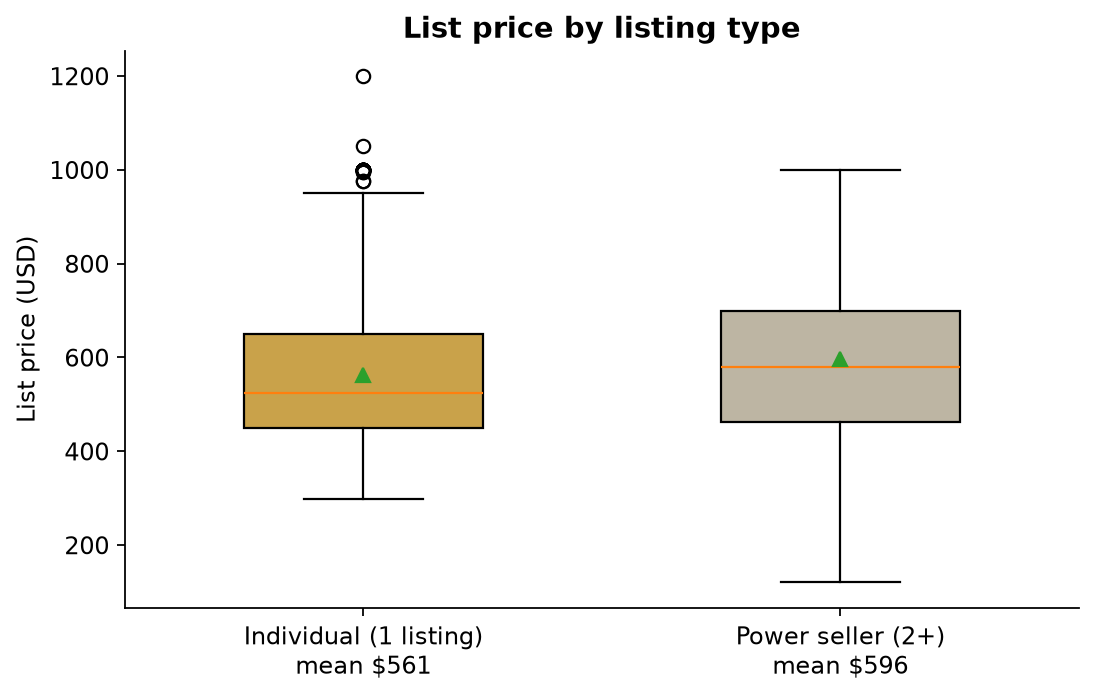
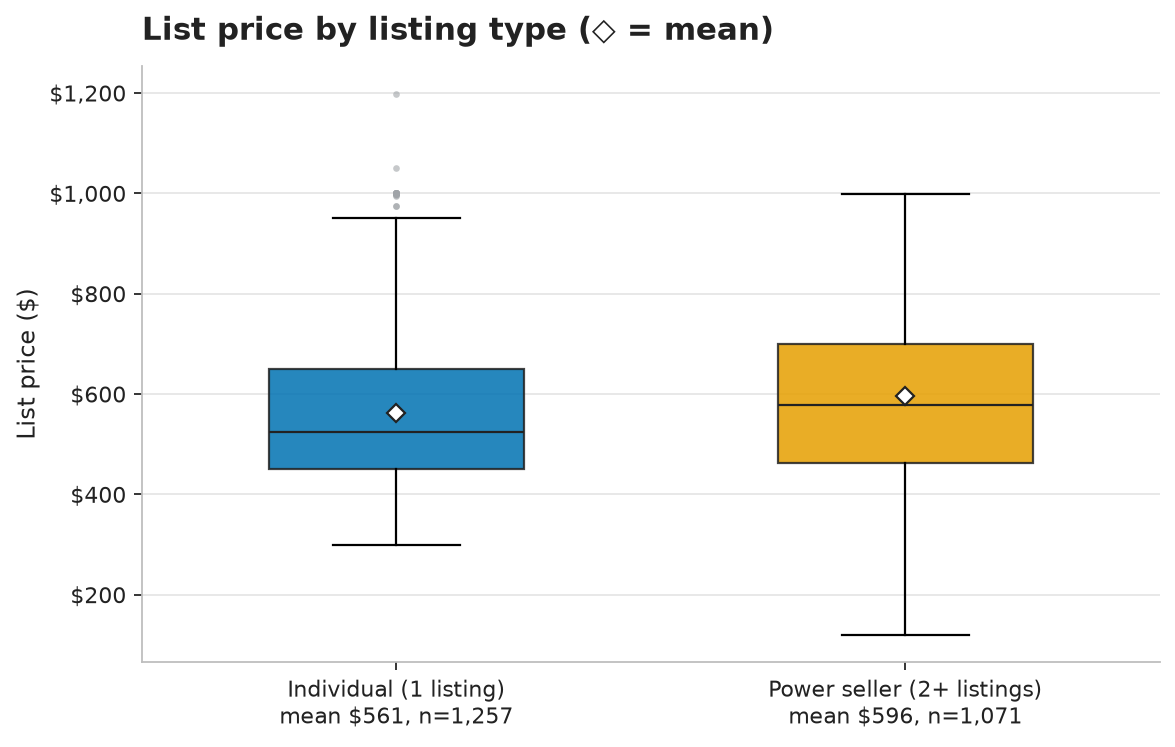
Restyle static figures: neutral theme, Okabe-Ito palette, legend-based donuts with grouped 'Other', dollar-labelled axes

diff --git a/src/visualization.py b/src/visualization.py
@@ -796,13 +796,24 @@ def display_model_results(
 
 # =====================================================================
 # README figures (regenerated by scripts/make_figures.py)
+# Neutral style: white background, #222 text, Okabe-Ito palette, minimal grid.
+# Gold is used only for gold-plated listings; gray for de-emphasized data.
 # =====================================================================
-GOLD, INK, BLUE, GREY = '#c9a24a', '#2b2823', '#4a78b5', '#bdb5a3'
+INK, MUTED, GRID = '#222222', '#555555', '#E6E6E6'
+BLUE, GRAY, ACCENT, UKC, GOLD = '#3A6EA5', '#A0A4A8', '#E69F00', '#D55E00', '#B8860B'
+POS, NEG = '#D55E00', '#0072B2'          # SHAP: raises / lowers prediction
+OKABE = ['#0072B2', '#E69F00', '#009E73', '#CC79A7', '#56B4E9', '#D55E00', '#F0E442']
 
 
 def _style():
-    plt.rcParams.update({'figure.dpi': 110, 'savefig.dpi': 160, 'axes.spines.top': False, 'axes.spines.right': False,
-                         'font.size': 11, 'axes.titleweight': 'bold'})
+    plt.rcdefaults()
+    plt.rcParams.update({
+        'figure.dpi': 110, 'savefig.dpi': 160, 'figure.facecolor': 'white', 'axes.facecolor': 'white',
+        'font.family': 'DejaVu Sans', 'font.size': 11, 'axes.titlesize': 14, 'axes.titleweight': 'bold',
+        'axes.titlepad': 12, 'axes.titlelocation': 'left', 'axes.labelsize': 11, 'axes.labelcolor': INK,
+        'text.color': INK, 'xtick.color': INK, 'ytick.color': INK, 'xtick.labelsize': 10, 'ytick.labelsize': 10,
+        'axes.edgecolor': '#BDBDBD', 'axes.spines.top': False, 'axes.spines.right': False,
+        'axes.grid': True, 'grid.color': GRID, 'grid.linewidth': 0.8, 'axes.axisbelow': True, 'legend.frameon': False})
 
 
 def _save(fig, path):
@@ -812,15 +823,32 @@ def _save(fig, path):
     return fig
 
 
-def fig_donut(counts, title, path=None, top=6):
+def _grid(ax, axis):
+    ax.grid(False)
+    ax.grid(True, axis=axis)
+
+
+def fig_donut(counts, title, path=None, top=4):
+    """Donut with a legend instead of slice labels; categories beyond `top` are grouped into 'Other'."""
     _style()
     c = counts.sort_values(ascending=False)
-    c = pd.concat([c.iloc[:top], pd.Series({'Other': c.iloc[top:].sum()})]) if len(c) > top else c
-    fig, ax = plt.subplots(figsize=(5.5, 5.5))
-    cols = ['#b8892f', '#d9b65c', '#efd99a', INK, '#7a7263', GREY, '#e6e0d2']
-    ax.pie(c.values, labels=c.index, colors=cols[:len(c)], autopct='%1.1f%%', pctdistance=0.78,
-           wedgeprops=dict(width=0.42, edgecolor='white'), startangle=90, counterclock=False)
-    ax.set_title(title)
+    other = c.iloc[top:]
+    if len(other):
+        c = pd.concat([c.iloc[:top], pd.Series({'Other': other.sum()})])
+    cols = [GRAY if k in ('Other', 'Unknown') else OKABE[i % len(OKABE)] for i, k in enumerate(c.index)]
+    fig, ax = plt.subplots(figsize=(6, 6.8))
+    ax.grid(False)
+    tot = c.sum()
+    wedges, _, autotexts = ax.pie(c.values, colors=cols, startangle=90, counterclock=False, pctdistance=0.78,
+                                  autopct=lambda p: f'{p:.1f}%' if p >= 5 else '', wedgeprops=dict(width=0.42, edgecolor='white', linewidth=2))
+    for t, col in zip(autotexts, cols):
+        t.set_color('white' if col in ('#0072B2', '#D55E00', '#009E73') else INK); t.set_fontsize(10); t.set_fontweight('bold')
+    ax.legend(wedges, [f'{k}  ({v:,} · {v / tot:.1%})' for k, v in c.items()], loc='upper center',
+              bbox_to_anchor=(0.5, 0.0), ncol=2, fontsize=10)
+    if len(other):
+        ax.text(0.5, -0.22, 'Other: ' + ', '.join(f'{k} ({v})' for k, v in other.items()), transform=ax.transAxes,
+                ha='center', va='top', fontsize=8.5, color=MUTED, wrap=True)
+    ax.set_title(title, loc='center')
     return _save(fig, path)
 
 
@@ -828,87 +856,108 @@ def fig_country_means(df, path=None, min_n=30):
     _style()
     g = df.groupby('country')['price'].agg(['mean', 'size'])
     g = g[g['size'] >= min_n].sort_values('mean', ascending=False)
-    fig, ax = plt.subplots(figsize=(9, 4.5))
-    ax.bar(g.index, g['mean'], color=[BLUE if c == 'United Kingdom' else GOLD for c in g.index])
-    ax.axhline(df.price.mean(), ls=':', color=INK)
-    ax.text(len(g) - 0.5, df.price.mean(), f'overall ${df.price.mean():,.0f}', ha='right', va='bottom')
-    for i, (m, n) in enumerate(zip(g['mean'], g['size'])):
-        ax.text(i, m, f'${m:,.0f}\nn={n}', ha='center', va='bottom', fontsize=9)
-    ax.set_ylabel('Average list price (USD)'); ax.set_title(f'Average price by country (≥{min_n} listings)')
+    fig, ax = plt.subplots(figsize=(9, 4.8)); _grid(ax, 'y')
+    ax.bar(g.index, g['mean'], color=[UKC if c == 'United Kingdom' else BLUE for c in g.index], width=.65)
+    m = round(df.price.mean(), 2)
+    ax.axhline(m, ls='--', lw=1, color=INK)
+    ax.text(len(g) - 0.6, m + 8, f'All listings: ${m:,.0f}', ha='right', va='bottom', fontsize=10)
+    for i, (v, n) in enumerate(zip(g['mean'], g['size'])):
+        ax.text(i, v / 2, f'${v:,.0f}\nn={n}', ha='center', va='center', fontsize=10, color='white', fontweight='bold')
+    ax.set_ylabel('Average list price ($)'); ax.set_title(f'Average list price by country (countries with ≥{min_n} listings)')
+    ax.yaxis.set_major_formatter(lambda x, _: f'${x:,.0f}')
     return _save(fig, path)
 
 
 def fig_listing_type(df, path=None):
     _style()
-    fig, ax = plt.subplots(figsize=(7, 4.5))
+    fig, ax = plt.subplots(figsize=(7.5, 4.8)); _grid(ax, 'y')
     data = [df.loc[df.power_seller == 0, 'price'], df.loc[df.power_seller == 1, 'price']]
-    b = ax.boxplot(data, patch_artist=True, showmeans=True, widths=.5)
-    for patch, c in zip(b['boxes'], [GOLD, GREY]):
-        patch.set_facecolor(c)
-    ax.set_xticks([1, 2], [f'Individual (1 listing)\nmean ${data[0].mean():,.0f}', f'Power seller (2+)\nmean ${data[1].mean():,.0f}'])
-    ax.set_ylabel('List price (USD)'); ax.set_title('List price by listing type')
+    b = ax.boxplot(data, patch_artist=True, showmeans=True, widths=.5, showfliers=True,
+                   medianprops=dict(color=INK), meanprops=dict(marker='D', markerfacecolor='white', markeredgecolor=INK),
+                   flierprops=dict(marker='o', markersize=3, markerfacecolor=GRAY, markeredgecolor='none', alpha=.6))
+    for patch, c in zip(b['boxes'], [OKABE[0], OKABE[1]]):
+        patch.set_facecolor(c); patch.set_alpha(.85); patch.set_edgecolor(INK)
+    ax.set_xticks([1, 2], [f'Individual (1 listing)\nmean ${data[0].mean():,.0f}, n={len(data[0]):,}',
+                           f'Power seller (2+ listings)\nmean ${data[1].mean():,.0f}, n={len(data[1]):,}'])
+    ax.set_ylabel('List price ($)'); ax.set_title('List price by listing type (◇ = mean)')
+    ax.yaxis.set_major_formatter(lambda x, _: f'${x:,.0f}')
     return _save(fig, path)
 
 
 def fig_price_by_model(df, current_gen, path=None, title='Average list price by model'):
     _style()
     g = df.groupby('model')['price'].mean().sort_values()
-    fig, ax = plt.subplots(figsize=(8, 6.5))
-    ax.barh(g.index, g.values, color=[GOLD if m in current_gen else INK for m in g.index])
+    fig, ax = plt.subplots(figsize=(8, 6.5)); _grid(ax, 'x')
+    ax.barh(g.index, g.values, color=[ACCENT if m in current_gen else BLUE for m in g.index], height=.7)
     for i, v in enumerate(g.values):
-        ax.text(v + 5, i, f'${v:,.0f}', va='center', fontsize=9)
-    ax.set_xlabel('Average list price (USD)'); ax.set_title(title + '  (gold = current generation)')
+        ax.text(v + 6, i, f'${v:,.0f}', va='center', fontsize=9.5)
+    ax.set_xlabel('Average list price ($)'); ax.set_title(title)
+    ax.xaxis.set_major_formatter(lambda x, _: f'${x:,.0f}')
+    from matplotlib.patches import Patch as _P
+    ax.legend(handles=[_P(color=ACCENT, label='Current generation'), _P(color=BLUE, label='Older models')], loc='lower right')
+    ax.set_xlim(0, g.max() * 1.12)
     return _save(fig, path)
 
 
 def fig_gold_share(df, path=None):
     _style()
     g = df.groupby('model')['gold'].mean().mul(100).sort_values()
-    fig, ax = plt.subplots(figsize=(8, 6.5))
-    ax.barh(g.index, g.values, color=[GOLD if v > 0 else GREY for v in g.values])
+    fig, ax = plt.subplots(figsize=(8, 6.5)); _grid(ax, 'x')
+    ax.barh(g.index, g.values, color=[GOLD if v > 0 else GRAY for v in g.values], height=.7)
     for i, v in enumerate(g.values):
-        ax.text(v + 1, i, f'{v:.0f}%', va='center', fontsize=9)
-    ax.set_xlim(0, 100); ax.set_xlabel('% of listings gold-plated'); ax.set_title('Share of 24k gold-plated listings by model')
+        ax.text(v + 1, i, f'{v:.0f}%', va='center', fontsize=9.5)
+    ax.set_xlim(0, 100); ax.set_xlabel('Gold-plated listings (% of model)'); ax.set_title('Share of 24k gold-plated listings by model')
     return _save(fig, path)
 
 
 def fig_importance(imp, title, path=None):
     _style()
     s = imp.sort_values()
-    fig, ax = plt.subplots(figsize=(8, 5))
-    ax.barh(s.index, s.values, color=[GOLD if r >= len(s) - 4 else GREY for r in range(len(s))])
+    fig, ax = plt.subplots(figsize=(8, 5)); _grid(ax, 'x')
+    ax.barh(s.index, s.values, color=[BLUE if r >= len(s) - 4 else GRAY for r in range(len(s))], height=.7)
     for i, v in enumerate(s.values):
-        ax.text(v + .3, i, f'${v:.2f}', va='center', fontsize=9)
-    ax.set_xlabel('Mean |SHAP| on test set (USD)'); ax.set_title(title)
+        ax.text(v + .3, i, f'${v:.2f}', va='center', fontsize=9.5)
+    ax.set_xlabel('Mean |SHAP value| on test set ($)'); ax.set_title(title)
+    ax.set_xlim(0, s.max() * 1.15)
     return _save(fig, path)
 
 
 def fig_waterfall(shap_row, labels, base, title, path=None):
     _style()
     order = np.argsort(-np.abs(shap_row))
-    fig, ax = plt.subplots(figsize=(8, 5.5))
+    fig, ax = plt.subplots(figsize=(8.5, 5.6)); _grid(ax, 'x')
+    x = base
+    lo = hi = base
+    for i in order:
+        x += shap_row[i]; lo, hi = min(lo, x), max(hi, x)
     x = base
     for k, i in enumerate(order):
         v = shap_row[i]
-        ax.barh(k, v, left=x, color=GOLD if v >= 0 else BLUE)
-        ax.text(max(x, x + v) + 2, k, f'{v:+.2f}', va='center', fontsize=9)
+        ax.barh(k, v, left=x, color=POS if v >= 0 else NEG, height=.7)
+        ax.text(max(x, x + v) + 1.5, k, f'{"+" if v >= 0 else "−"}${abs(v):.2f}', va='center', fontsize=9.5)
         x += v
     ax.set_yticks(range(len(order)), [labels[i] for i in order]); ax.invert_yaxis()
-    ax.axvline(base, color=INK, ls=':'); ax.axvline(x, color=INK)
-    ax.margins(x=0.12)
-    ax.set_xlabel(f'USD  (base \\${base:,.0f} → prediction \\${x:,.0f})'); ax.set_title(title)
+    ax.axvline(base, color=MUTED, ls='--', lw=1); ax.axvline(x, color=INK, lw=1.2)
+    pad = (hi - lo) * 0.18
+    ax.set_xlim(lo - pad * .4, hi + pad)
+    ax.set_xlabel(f'Predicted list price ($): base \\${base:,.0f} → prediction \\${x:,.0f}')
+    ax.xaxis.set_major_formatter(lambda t, _: f'${t:,.0f}')
+    from matplotlib.patches import Patch as _P
+    ax.legend(handles=[_P(color=POS, label='Raises prediction'), _P(color=NEG, label='Lowers prediction')], loc='lower right')
+    ax.set_title(title)
     return _save(fig, path)
 
 
 def fig_country_shap(country, shap_country, path=None):
     _style()
     uk = shap_country[country == 'United Kingdom']; other = shap_country[country != 'United Kingdom']
-    fig, ax = plt.subplots(figsize=(8, 4.5))
+    fig, ax = plt.subplots(figsize=(8.5, 4.6)); _grid(ax, 'y')
     bins = np.linspace(shap_country.min(), shap_country.max(), 40)
-    ax.hist(other, bins=bins, color=GOLD, alpha=.8, label=f'Other countries (n={len(other)}, mean {other.mean():+.0f})')
-    ax.hist(uk, bins=bins, color=BLUE, alpha=.9, label=f'United Kingdom (n={len(uk)}, mean {uk.mean():+.0f})')
-    ax.axvline(0, color=INK, lw=1); ax.legend(frameon=False)
-    ax.set_xlabel('Country SHAP value (USD)'); ax.set_ylabel('Listings'); ax.set_title('Country SHAP values: UK vs. everywhere else')
+    ax.hist(other, bins=bins, color=GRAY, label=f'Other countries (n={len(other):,}, mean {other.mean():+.0f} $)')
+    ax.hist(uk, bins=bins, color=UKC, alpha=.9, label=f'United Kingdom (n={len(uk)}, mean {uk.mean():+.0f} $)')
+    ax.axvline(0, color=INK, lw=1); ax.legend(loc='upper left')
+    ax.set_xlabel('Country SHAP value ($)'); ax.set_ylabel('Listings'); ax.set_title('Country SHAP values: UK vs. other countries')
+    ax.xaxis.set_major_formatter(lambda t, _: f'${t:,.0f}')
     return _save(fig, path)
 
 
@@ -919,7 +968,9 @@ def fig_deviation_heatmap(df, path=None, min_n=30):
     cm = df.groupby([ck, 'model'])['price'].mean().unstack()
     cols = sorted(cm.columns, key=lambda m: ({'Series': 0, 'SE': 1, 'Ultra': 2}[m.split()[0]], int(m.split()[1])))
     dev = cm.sub(cm.mean(axis=0), axis=1)[cols]
-    fig, ax = plt.subplots(figsize=(11, 4.8))
-    sns.heatmap(dev, cmap='RdBu_r', center=0, ax=ax, cbar_kws={'label': 'Δ vs model mean (USD)'})
-    ax.set_xlabel(''); ax.set_ylabel(''); ax.set_title('Deviation from each model\'s cross-country mean price')
+    fig, ax = plt.subplots(figsize=(11, 4.8)); ax.grid(False)
+    lim = np.nanmax(np.abs(dev.values))
+    sns.heatmap(dev, cmap='RdBu_r', center=0, vmin=-lim, vmax=lim, ax=ax, linewidths=.5, linecolor='white',
+                cbar_kws={'label': 'Difference from model average ($)'})
+    ax.set_xlabel(''); ax.set_ylabel(''); ax.set_title("List price vs. each model's cross-country average (blue = cheaper, red = pricier; blank = no listings)")
     return _save(fig, path)

diff --git a/scripts/make_figures.py b/scripts/make_figures.py
@@ -17,8 +17,8 @@ st = compute_story(raw, df)
 lab = [f.replace('_', ' ') for f in FEATURES]
 X = st['X']
 
-v.fig_donut(df['country'].value_counts(), 'Listings by country', P('01_country_donut.png'))
-v.fig_donut(df['family'].value_counts(), 'Listings by family', P('02_family_donut.png'))
+v.fig_donut(df['country'].value_counts(), 'Listings by country', P('01_country_donut.png'), top=5)
+v.fig_donut(df['family'].fillna('Unknown').value_counts(), 'Listings by family', P('02_family_donut.png'))
 v.fig_country_means(df, P('03_country_means.png'))
 v.fig_listing_type(df, P('04_listing_type.png'))
 v.fig_price_by_model(df, CURRENT_GEN, P('05_price_by_model.png'))
@@ -26,9 +26,9 @@ v.fig_gold_share(df, P('06_gold_share_by_model.png'))
 v.fig_price_by_model(df[df.gold == 0], CURRENT_GEN, P('07_price_by_model_no_gold.png'), 'Average list price by model, gold-plated excluded')
 v.fig_importance(st['A'].importance().rename(lambda s: s.replace('_', ' ')), 'Feature importance (CatBoost + SHAP, with power seller)', P('08_shap_ranking.png'))
 ti = df.index.get_loc(st['typical_idx'])
-v.fig_waterfall(st['sv'][ti], [f'{l} = {X.iloc[ti][f]}' for l, f in zip(lab, FEATURES)], st['base'], 'SHAP breakdown: typical US Ultra 3 listing', P('09_shap_typical_ultra3.png'))
+v.fig_waterfall(st['sv'][ti], [f'{l} = {"missing" if pd.isna(X.iloc[ti][f]) else X.iloc[ti][f]}' for l, f in zip(lab, FEATURES)], st['base'], 'SHAP breakdown: typical US Ultra 3 listing', P('09_shap_typical_ultra3.png'))
 w = st['s2_row'].iloc[0]
-v.fig_waterfall(st['s2_shap'], [f'{l} = {w[f]}' for l, f in zip(lab, FEATURES)], st['base'], 'SHAP breakdown: hypothetical gold-plated Series 2', P('10_shap_series2_gold.png'))
+v.fig_waterfall(st['s2_shap'], [f'{l} = {"missing" if pd.isna(w[f]) else w[f]}' for l, f in zip(lab, FEATURES)], st['base'], 'SHAP breakdown: hypothetical gold-plated Series 2', P('10_shap_series2_gold.png'))
 v.fig_country_shap(df['country'].values, st['sv'][:, FEATURES.index('country')], P('11_shap_country_uk.png'))
 v.fig_deviation_heatmap(df, P('12_price_deviation_heatmap.png'))
 print('figures written to', IMAGES_DIR)
